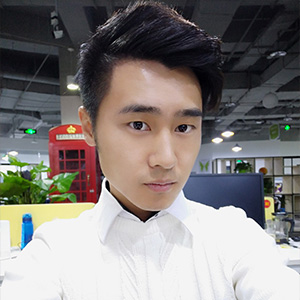
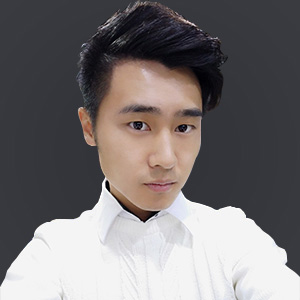
添加协办方，修改头像

diff --git a/ITears/meetPC.html b/ITears/meetPC.html
@@ -1,7 +1,7 @@
 <!DOCTYPE html>
 <html>
 <head>
-    <title>ICIE·IT耳朵智能创新大会</title>
+    <title>IEIC·IT耳朵智能创新大会</title>
     <meta charset="UTF-8">
     <meta name="viewport" content="width=device-width,initial-scale=1.0,user-scalable=no"/>
     <meta name="description"
@@ -501,7 +501,7 @@
             </ul>
             <ul class="content_list people">
                 <li>
-                    <img src="./images/people/0.jpg" alt=""/>
+                    <img src="./images/people/00.jpg" alt=""/>
 
                     <div>
                         <b>潘海祥</b>
@@ -836,18 +836,18 @@
         <b>协办方</b>
 
         <div>
-            <img src="./images/media_logo/wait.jpg" alt=""/>
-            <img src="./images/media_logo/wait.jpg" alt=""/>
-            <img src="./images/media_logo/wait.jpg" alt=""/>
-            <img src="./images/media_logo/wait.jpg" alt=""/>
-            <img src="./images/media_logo/wait.jpg" alt=""/>
-            <img src="./images/media_logo/wait.jpg" alt=""/>
-            <img src="./images/media_logo/wait.jpg" alt=""/>
-            <img src="./images/media_logo/wait.jpg" alt=""/>
-            <img src="./images/media_logo/wait.jpg" alt=""/>
-            <img src="./images/media_logo/wait.jpg" alt=""/>
-            <img src="./images/media_logo/wait.jpg" alt=""/>
-            <img src="./images/media_logo/wait.jpg" alt=""/>
+            <img src="./images/assist_logo/1.jpg" alt=""/>
+            <img src="./images/assist_logo/2.jpg" alt=""/>
+            <!--<img src="./images/media_logo/wait.jpg" alt=""/>-->
+            <!--<img src="./images/media_logo/wait.jpg" alt=""/>-->
+            <!--<img src="./images/media_logo/wait.jpg" alt=""/>-->
+            <!--<img src="./images/media_logo/wait.jpg" alt=""/>-->
+            <!--<img src="./images/media_logo/wait.jpg" alt=""/>-->
+            <!--<img src="./images/media_logo/wait.jpg" alt=""/>-->
+            <!--<img src="./images/media_logo/wait.jpg" alt=""/>-->
+            <!--<img src="./images/media_logo/wait.jpg" alt=""/>-->
+            <!--<img src="./images/media_logo/wait.jpg" alt=""/>-->
+            <!--<img src="./images/media_logo/wait.jpg" alt=""/>-->
         </div>
         <b>合作媒体</b>
 
@@ -880,34 +880,34 @@
         <b>首席战略合作伙伴</b>
 
         <div>
-            <img src="./images/media_logo/wait.jpg" alt=""/>
-            <img src="./images/media_logo/wait.jpg" alt=""/>
-            <img src="./images/media_logo/wait.jpg" alt=""/>
-            <img src="./images/media_logo/wait.jpg" alt=""/>
-            <img src="./images/media_logo/wait.jpg" alt=""/>
-            <img src="./images/media_logo/wait.jpg" alt=""/>
-            <img src="./images/media_logo/wait.jpg" alt=""/>
-            <img src="./images/media_logo/wait.jpg" alt=""/>
-            <img src="./images/media_logo/wait.jpg" alt=""/>
-            <img src="./images/media_logo/wait.jpg" alt=""/>
-            <img src="./images/media_logo/wait.jpg" alt=""/>
-            <img src="./images/media_logo/wait.jpg" alt=""/>
+            <!--<img src="./images/media_logo/wait.jpg" alt=""/>-->
+            <!--<img src="./images/media_logo/wait.jpg" alt=""/>-->
+            <!--<img src="./images/media_logo/wait.jpg" alt=""/>-->
+            <!--<img src="./images/media_logo/wait.jpg" alt=""/>-->
+            <!--<img src="./images/media_logo/wait.jpg" alt=""/>-->
+            <!--<img src="./images/media_logo/wait.jpg" alt=""/>-->
+            <!--<img src="./images/media_logo/wait.jpg" alt=""/>-->
+            <!--<img src="./images/media_logo/wait.jpg" alt=""/>-->
+            <!--<img src="./images/media_logo/wait.jpg" alt=""/>-->
+            <!--<img src="./images/media_logo/wait.jpg" alt=""/>-->
+            <!--<img src="./images/media_logo/wait.jpg" alt=""/>-->
+            <!--<img src="./images/media_logo/wait.jpg" alt=""/>-->
         </div>
         <b>战略合作伙伴</b>
 
         <div>
-            <img src="./images/media_logo/wait.jpg" alt=""/>
-            <img src="./images/media_logo/wait.jpg" alt=""/>
-            <img src="./images/media_logo/wait.jpg" alt=""/>
-            <img src="./images/media_logo/wait.jpg" alt=""/>
-            <img src="./images/media_logo/wait.jpg" alt=""/>
-            <img src="./images/media_logo/wait.jpg" alt=""/>
-            <img src="./images/media_logo/wait.jpg" alt=""/>
-            <img src="./images/media_logo/wait.jpg" alt=""/>
-            <img src="./images/media_logo/wait.jpg" alt=""/>
-            <img src="./images/media_logo/wait.jpg" alt=""/>
-            <img src="./images/media_logo/wait.jpg" alt=""/>
-            <img src="./images/media_logo/wait.jpg" alt=""/>
+            <!--<img src="./images/media_logo/wait.jpg" alt=""/>-->
+            <!--<img src="./images/media_logo/wait.jpg" alt=""/>-->
+            <!--<img src="./images/media_logo/wait.jpg" alt=""/>-->
+            <!--<img src="./images/media_logo/wait.jpg" alt=""/>-->
+            <!--<img src="./images/media_logo/wait.jpg" alt=""/>-->
+            <!--<img src="./images/media_logo/wait.jpg" alt=""/>-->
+            <!--<img src="./images/media_logo/wait.jpg" alt=""/>-->
+            <!--<img src="./images/media_logo/wait.jpg" alt=""/>-->
+            <!--<img src="./images/media_logo/wait.jpg" alt=""/>-->
+            <!--<img src="./images/media_logo/wait.jpg" alt=""/>-->
+            <!--<img src="./images/media_logo/wait.jpg" alt=""/>-->
+            <!--<img src="./images/media_logo/wait.jpg" alt=""/>-->
         </div>
         <!--<b>战略合作伙伴</b>-->
 

diff --git a/ITears/meetApp.html b/ITears/meetApp.html
@@ -1,7 +1,7 @@
 <!DOCTYPE html>
 <html>
 <head>
-    <title>ICIE·IT耳朵智能创新大会</title>
+    <title>IEIC·IT耳朵智能创新大会</title>
     <meta charset="UTF-8">
     <meta name="keywords" content="产业创新,人工智能,共享经济,消费升级,企业服务,一带一路"/>
     <meta name="description"
@@ -475,7 +475,7 @@
                     </div>
                     <div class="theme">
                         <span>峰会开幕、主办方致辞</span>
-                        <img src="./images/people/0.jpg" alt=""/>
+                        <img src="./images/people/00.jpg" alt=""/>
 
                         <div>
                             <b>潘海祥</b>
@@ -835,14 +835,14 @@
         <b>协办方</b>
 
         <div>
-            <img src="./images/media_logo/wait.jpg" alt=""/>
-            <img src="./images/media_logo/wait.jpg" alt=""/>
-            <img src="./images/media_logo/wait.jpg" alt=""/>
-            <img src="./images/media_logo/wait.jpg" alt=""/>
-            <img src="./images/media_logo/wait.jpg" alt=""/>
-            <img src="./images/media_logo/wait.jpg" alt=""/>
-            <img src="./images/media_logo/wait.jpg" alt=""/>
-            <img src="./images/media_logo/wait.jpg" alt=""/>
+            <img src="./images/assist_logo/1.jpg" alt=""/>
+            <img src="./images/assist_logo/2.jpg" alt=""/>
+            <!--<img src="./images/media_logo/wait.jpg" alt=""/>-->
+            <!--<img src="./images/media_logo/wait.jpg" alt=""/>-->
+            <!--<img src="./images/media_logo/wait.jpg" alt=""/>-->
+            <!--<img src="./images/media_logo/wait.jpg" alt=""/>-->
+            <!--<img src="./images/media_logo/wait.jpg" alt=""/>-->
+            <!--<img src="./images/media_logo/wait.jpg" alt=""/>-->
         </div>
         <b>合作媒体</b>
 
@@ -875,26 +875,26 @@
         <b>首席战略合作伙伴</b>
 
         <div>
-            <img src="./images/media_logo/wait.jpg" alt=""/>
-            <img src="./images/media_logo/wait.jpg" alt=""/>
-            <img src="./images/media_logo/wait.jpg" alt=""/>
-            <img src="./images/media_logo/wait.jpg" alt=""/>
-            <img src="./images/media_logo/wait.jpg" alt=""/>
-            <img src="./images/media_logo/wait.jpg" alt=""/>
-            <img src="./images/media_logo/wait.jpg" alt=""/>
-            <img src="./images/media_logo/wait.jpg" alt=""/>
+            <!--<img src="./images/media_logo/wait.jpg" alt=""/>-->
+            <!--<img src="./images/media_logo/wait.jpg" alt=""/>-->
+            <!--<img src="./images/media_logo/wait.jpg" alt=""/>-->
+            <!--<img src="./images/media_logo/wait.jpg" alt=""/>-->
+            <!--<img src="./images/media_logo/wait.jpg" alt=""/>-->
+            <!--<img src="./images/media_logo/wait.jpg" alt=""/>-->
+            <!--<img src="./images/media_logo/wait.jpg" alt=""/>-->
+            <!--<img src="./images/media_logo/wait.jpg" alt=""/>-->
         </div>
         <b>战略合作伙伴</b>
 
         <div>
-            <img src="./images/media_logo/wait.jpg" alt=""/>
-            <img src="./images/media_logo/wait.jpg" alt=""/>
-            <img src="./images/media_logo/wait.jpg" alt=""/>
-            <img src="./images/media_logo/wait.jpg" alt=""/>
-            <img src="./images/media_logo/wait.jpg" alt=""/>
-            <img src="./images/media_logo/wait.jpg" alt=""/>
-            <img src="./images/media_logo/wait.jpg" alt=""/>
-            <img src="./images/media_logo/wait.jpg" alt=""/>
+            <!--<img src="./images/media_logo/wait.jpg" alt=""/>-->
+            <!--<img src="./images/media_logo/wait.jpg" alt=""/>-->
+            <!--<img src="./images/media_logo/wait.jpg" alt=""/>-->
+            <!--<img src="./images/media_logo/wait.jpg" alt=""/>-->
+            <!--<img src="./images/media_logo/wait.jpg" alt=""/>-->
+            <!--<img src="./images/media_logo/wait.jpg" alt=""/>-->
+            <!--<img src="./images/media_logo/wait.jpg" alt=""/>-->
+            <!--<img src="./images/media_logo/wait.jpg" alt=""/>-->
         </div>
         <!--<b>战略合作伙伴</b>-->
 
